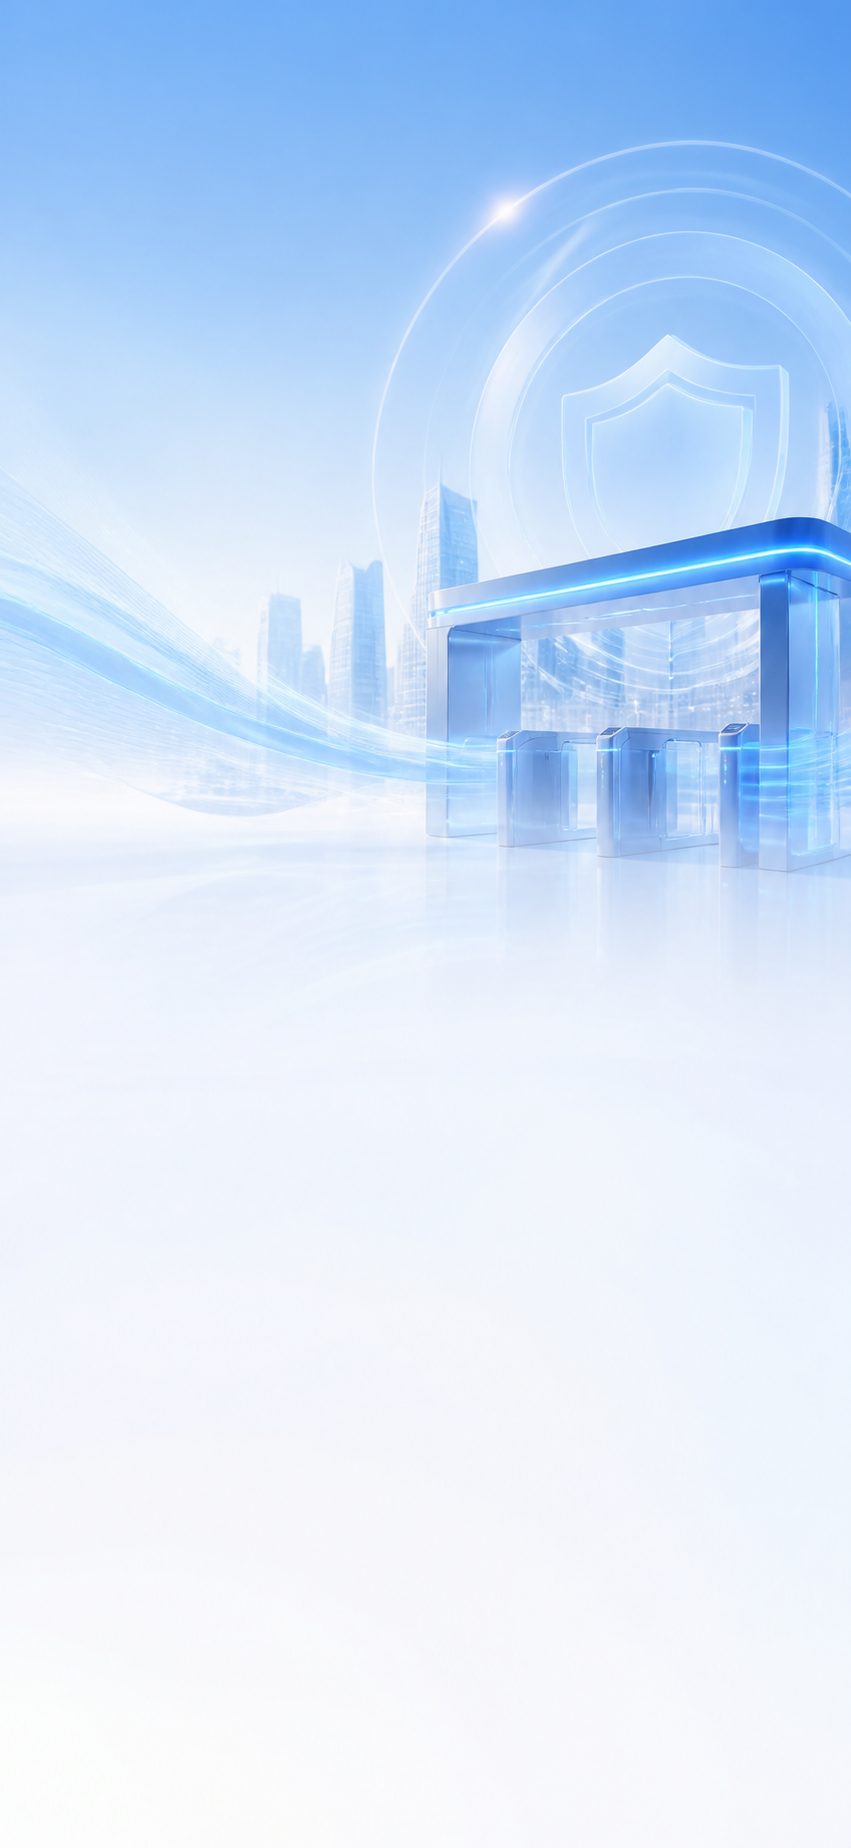
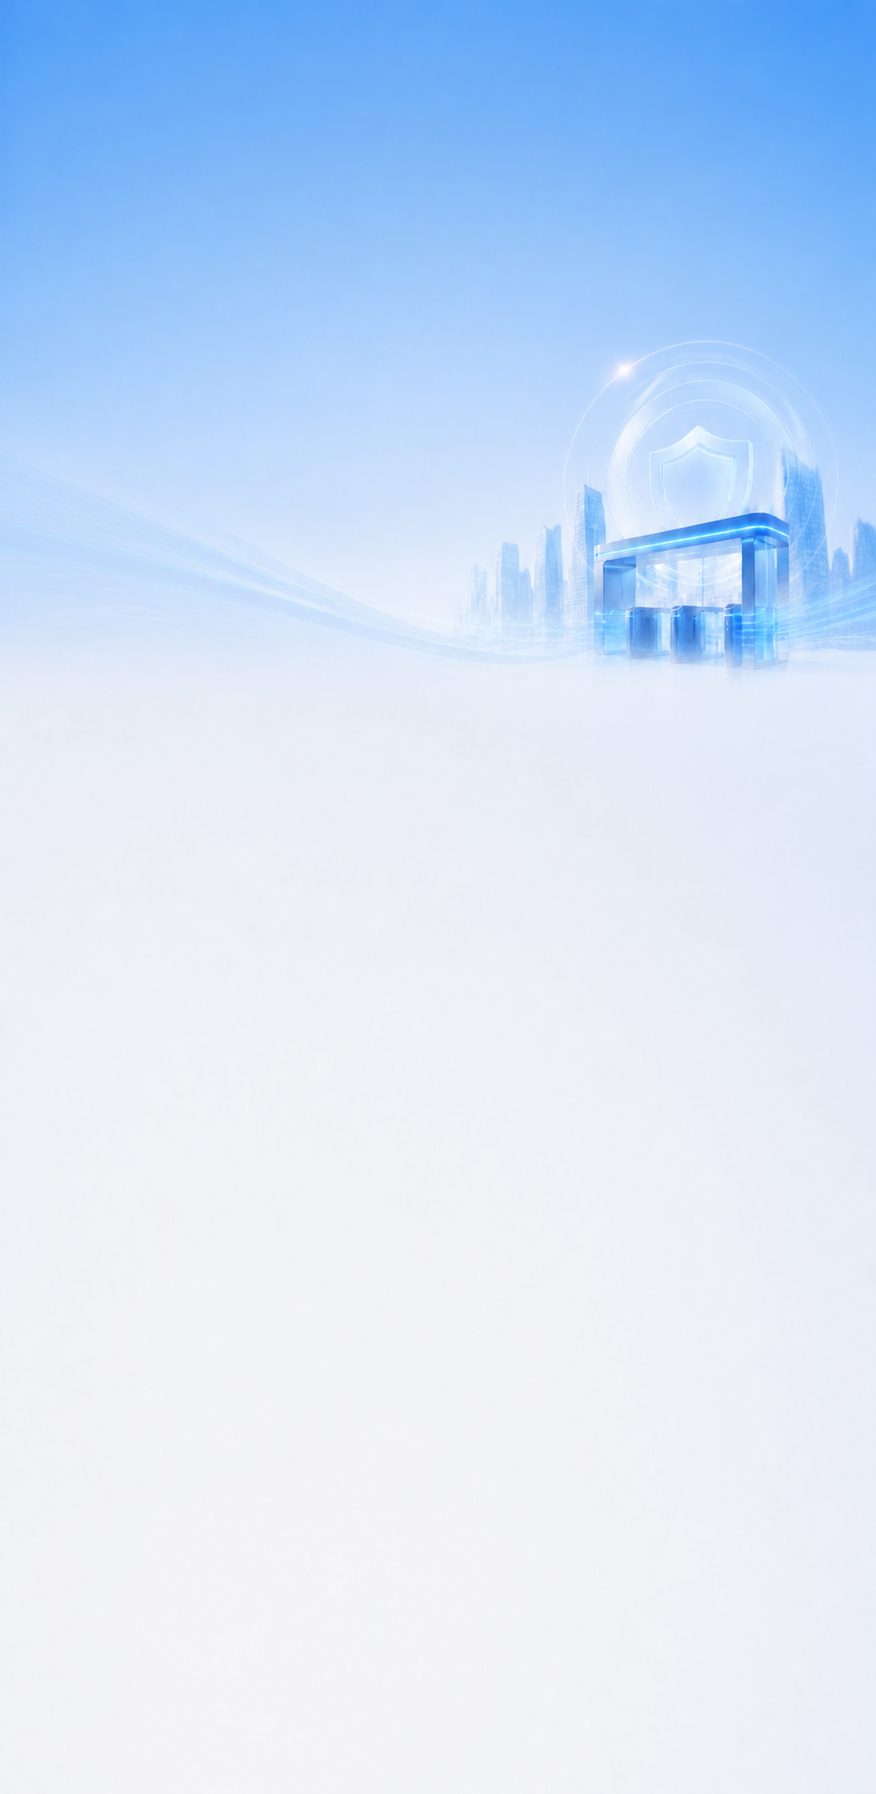
调整登录背景主体位置

Changed region(s): [[0.0, 0.0, 1.0, 0.4994], [0.5194, 0.0936, 0.7027, 0.2497], [0.4277, 0.2185, 0.4583, 0.2497]]

diff --git a/frontends/enterprise-h5.html b/frontends/enterprise-h5.html
@@ -34,7 +34,7 @@ body.profile-mode .top{display:none}body.profile-mode .app{background:#f2f7fc}.p
 /* 提交区与页面同底色，紧贴 Tab 上方；申请页关闭位移动画，避免 fixed 被变换容器截获 */
 .view.apply-page{padding-bottom:76px}.view.apply-page.active{animation:none}.submit-bar{z-index:6;padding:8px 16px 10px;border:0;background:#f4f8fc;box-shadow:none;backdrop-filter:none;-webkit-backdrop-filter:none}
 /* 登录页：背景切图与 DOM 表单分层，替换 login-bg.png 不影响文字和交互 */
-.login-screen{width:min(100%,430px);min-height:100dvh;margin:auto;padding:calc(22px + env(safe-area-inset-top)) 20px calc(24px + env(safe-area-inset-bottom));position:relative;overflow:hidden;background:#f4f9ff url('../assets/login-bg.png') center top/cover no-repeat;box-shadow:0 0 0 1px rgba(39,87,129,.08),0 20px 70px rgba(36,75,111,.16)}.login-screen:after{content:"";position:absolute;inset:0;background:linear-gradient(180deg,rgba(244,249,255,.08) 0%,rgba(244,249,255,.12) 30%,rgba(244,249,255,.56) 56%,#f4f9ff 88%);pointer-events:none}.login-content{position:relative;z-index:1}.login-brand{display:flex;align-items:center;gap:11px}.login-logo{width:48px;height:48px;border-radius:15px;display:grid;place-items:center;color:#fff;font-size:23px;font-weight:700;background:linear-gradient(145deg,#0d67d8,#2685ee);box-shadow:0 9px 22px rgba(16,104,216,.25),inset 0 0 0 1px rgba(255,255,255,.3)}.login-brand b{display:block;color:#17365f;font-size:20px;line-height:1.25;letter-spacing:.04em}.login-brand small{display:block;color:#698198;font-size:12px;margin-top:3px}.login-intro{margin-top:130px}.login-intro h1{margin:0;color:#17324d;font-size:30px;line-height:1.25;letter-spacing:-.03em;text-wrap:balance}.login-intro p{margin:8px 0 0;color:#617b94;font-size:14px}.login-panel{margin-top:24px;padding:22px 18px 20px;border-radius:20px;background:rgba(255,255,255,.92);box-shadow:0 14px 38px rgba(38,85,130,.13),inset 0 0 0 1px rgba(255,255,255,.8);backdrop-filter:blur(12px);-webkit-backdrop-filter:blur(12px)}.login-field{margin-bottom:17px}.login-field label{display:block;margin:0 0 8px;color:#2c4965;font-size:13px;font-weight:600}.login-input-wrap{height:52px;border:1px solid #d3e1ed;border-radius:12px;background:rgba(250,253,255,.92);display:flex;align-items:center;padding:0 13px;color:#7690a8;transition-property:border-color,box-shadow,background-color;transition-duration:.2s}.login-input-wrap:focus-within{border-color:#438ee6;background:#fff;box-shadow:0 0 0 3px rgba(23,107,219,.11)}.login-input-wrap .ui-icon{width:20px;height:20px;flex:0 0 20px}.login-input-wrap input{width:100%;min-width:0;height:50px;border:0;outline:0;background:transparent;padding:0 10px;color:#17324d;font-size:16px}.login-input-wrap input::placeholder{color:#9bacc0}.code-button{height:38px;flex:0 0 auto;border:0;border-left:1px solid #dce7f0;background:transparent;padding:0 0 0 13px;color:#176bdb;font-size:13px;font-weight:550;white-space:nowrap}.login-button{margin-top:2px;height:52px}.login-agreement{display:flex;align-items:flex-start;gap:8px;margin:16px 3px 0;color:#607990;font-size:12px;line-height:1.55}.login-agreement input{width:18px;height:18px;margin:0;accent-color:#176bdb;flex:0 0 18px}.login-agreement a{color:#176bdb;text-decoration:none}.login-support{text-align:center;margin:22px 0 0;color:#8295a8;font-size:12px}.login-support button{min-height:40px;border:0;background:transparent;padding:0 4px;color:#176bdb}.login-screen[hidden]{display:none}body.login-mode{min-height:100dvh}body.login-mode .app,body.login-mode .mask{display:none}@media(max-height:760px){.login-intro{margin-top:72px}.login-panel{margin-top:18px}.login-support{margin-top:12px}}@media(max-width:350px){.login-screen{padding-left:16px;padding-right:16px}.login-intro{margin-top:100px}.login-intro h1{font-size:27px}.login-panel{padding-left:16px;padding-right:16px}}
+.login-screen{width:min(100%,430px);min-height:100dvh;margin:auto;padding:calc(22px + env(safe-area-inset-top)) 20px calc(24px + env(safe-area-inset-bottom));position:relative;overflow:hidden;background:#f4f9ff url('../assets/login-bg.png') center -72px/cover no-repeat;box-shadow:0 0 0 1px rgba(39,87,129,.08),0 20px 70px rgba(36,75,111,.16)}.login-screen:after{content:"";position:absolute;inset:0;background:linear-gradient(180deg,rgba(244,249,255,.08) 0%,rgba(244,249,255,.12) 30%,rgba(244,249,255,.56) 56%,#f4f9ff 88%);pointer-events:none}.login-content{position:relative;z-index:1}.login-brand{display:flex;align-items:center;gap:11px}.login-logo{width:48px;height:48px;border-radius:15px;display:grid;place-items:center;color:#fff;font-size:23px;font-weight:700;background:linear-gradient(145deg,#0d67d8,#2685ee);box-shadow:0 9px 22px rgba(16,104,216,.25),inset 0 0 0 1px rgba(255,255,255,.3)}.login-brand b{display:block;color:#17365f;font-size:20px;line-height:1.25;letter-spacing:.04em}.login-brand small{display:block;color:#698198;font-size:12px;margin-top:3px}.login-intro{margin-top:130px}.login-intro h1{margin:0;color:#17324d;font-size:30px;line-height:1.25;letter-spacing:-.03em;text-wrap:balance}.login-intro p{margin:8px 0 0;color:#617b94;font-size:14px}.login-panel{margin-top:24px;padding:22px 18px 20px;border-radius:20px;background:rgba(255,255,255,.92);box-shadow:0 14px 38px rgba(38,85,130,.13),inset 0 0 0 1px rgba(255,255,255,.8);backdrop-filter:blur(12px);-webkit-backdrop-filter:blur(12px)}.login-field{margin-bottom:17px}.login-field label{display:block;margin:0 0 8px;color:#2c4965;font-size:13px;font-weight:600}.login-input-wrap{height:52px;border:1px solid #d3e1ed;border-radius:12px;background:rgba(250,253,255,.92);display:flex;align-items:center;padding:0 13px;color:#7690a8;transition-property:border-color,box-shadow,background-color;transition-duration:.2s}.login-input-wrap:focus-within{border-color:#438ee6;background:#fff;box-shadow:0 0 0 3px rgba(23,107,219,.11)}.login-input-wrap .ui-icon{width:20px;height:20px;flex:0 0 20px}.login-input-wrap input{width:100%;min-width:0;height:50px;border:0;outline:0;background:transparent;padding:0 10px;color:#17324d;font-size:16px}.login-input-wrap input::placeholder{color:#9bacc0}.code-button{height:38px;flex:0 0 auto;border:0;border-left:1px solid #dce7f0;background:transparent;padding:0 0 0 13px;color:#176bdb;font-size:13px;font-weight:550;white-space:nowrap}.login-button{margin-top:2px;height:52px}.login-agreement{display:flex;align-items:flex-start;gap:8px;margin:16px 3px 0;color:#607990;font-size:12px;line-height:1.55}.login-agreement input{width:18px;height:18px;margin:0;accent-color:#176bdb;flex:0 0 18px}.login-agreement a{color:#176bdb;text-decoration:none}.login-support{text-align:center;margin:22px 0 0;color:#8295a8;font-size:12px}.login-support button{min-height:40px;border:0;background:transparent;padding:0 4px;color:#176bdb}.login-screen[hidden]{display:none}body.login-mode{min-height:100dvh}body.login-mode .app,body.login-mode .mask{display:none}@media(max-height:760px){.login-intro{margin-top:72px}.login-panel{margin-top:18px}.login-support{margin-top:12px}}@media(max-width:350px){.login-screen{padding-left:16px;padding-right:16px}.login-intro{margin-top:100px}.login-intro h1{font-size:27px}.login-panel{padding-left:16px;padding-right:16px}}
 </style>
 </head>
 <body class="login-mode"><svg width="0" height="0" style="position:absolute"><symbol id="i-add" viewBox="0 0 24 24"><path d="M12 5v14M5 12h14"/></symbol><symbol id="i-next" viewBox="0 0 24 24"><path d="m9 5 7 7-7 7"/></symbol><symbol id="i-close" viewBox="0 0 24 24"><path d="m6 6 12 12M18 6 6 18"/></symbol><symbol id="i-trash" viewBox="0 0 24 24"><path d="M5 7h14M9 7V4h6v3m2 0-1 13H8L7 7m3 4v5m4-5v5"/></symbol><symbol id="i-door" viewBox="0 0 24 24"><path d="M4 21h16M6 21V4h10v17M10 12h.01M16 8h3v13"/></symbol><symbol id="i-file-add" viewBox="0 0 24 24"><path d="M6 3h8l4 4v14H6zM14 3v5h4M12 11v6m-3-3h6"/></symbol><symbol id="i-file-list" viewBox="0 0 24 24"><path d="M6 3h8l4 4v14H6zM14 3v5h4M9 12h6M9 16h6"/></symbol><symbol id="i-lock" viewBox="0 0 24 24"><rect x="5" y="10" width="14" height="11" rx="2"/><path d="M8 10V7a4 4 0 0 1 8 0v3"/></symbol><symbol id="i-logout" viewBox="0 0 24 24"><path d="M10 5H5v14h5M14 8l4 4-4 4m4-4H9"/></symbol><symbol id="i-qr" viewBox="0 0 24 24"><path d="M4 4h6v6H4zM14 4h6v6h-6zM4 14h6v6H4zM15 14h2v2h-2zM19 14h1v6h-5v-2"/></symbol><symbol id="i-search" viewBox="0 0 24 24"><circle cx="11" cy="11" r="6"/><path d="m16 16 4 4"/></symbol><symbol id="i-shield" viewBox="0 0 24 24"><path d="M12 3 5 6v5c0 5 3 8 7 10 4-2 7-5 7-10V6zM9 12l2 2 4-4"/></symbol><symbol id="i-phone" viewBox="0 0 24 24"><rect x="7" y="2" width="10" height="20" rx="2"/><path d="M10 18h4"/></symbol><symbol id="i-user" viewBox="0 0 24 24"><circle cx="12" cy="8" r="4"/><path d="M5 21a7 7 0 0 1 14 0"/></symbol><symbol id="i-settings" viewBox="0 0 24 24"><circle cx="12" cy="12" r="3"/><path d="M19 12a7 7 0 0 0-.1-1l2-1.5-2-3.4-2.4 1A7 7 0 0 0 14.8 6L14.5 3h-5L9.2 6a7 7 0 0 0-1.7 1.1l-2.4-1-2 3.4L5.1 11a7 7 0 0 0 0 2l-2 1.5 2 3.4 2.4-1A7 7 0 0 0 9.2 18l.3 3h5l.3-3a7 7 0 0 0 1.7-1.1l2.4 1 2-3.4-2-1.5c.1-.3.1-.7.1-1z"/></symbol><symbol id="i-bell" viewBox="0 0 24 24"><path d="M18 8a6 6 0 0 0-12 0c0 7-3 7-3 9h18c0-2-3-2-3-9M10 21h4"/></symbol><symbol id="i-building" viewBox="0 0 24 24"><path d="M4 21V5h10v16M14 9h6v12M7 9h4M7 13h4M7 17h4M17 13h1M17 17h1M2 21h20"/></symbol><symbol id="i-team" viewBox="0 0 24 24"><circle cx="9" cy="8" r="3"/><circle cx="17" cy="9" r="2"/><path d="M3 20a6 6 0 0 1 12 0M14 15a5 5 0 0 1 7 4"/></symbol><symbol id="i-map" viewBox="0 0 24 24"><path d="M12 21s7-5 7-12a7 7 0 0 0-14 0c0 7 7 12 7 12z"/><circle cx="12" cy="9" r="2"/></symbol></svg><section class="login-screen" id="loginScreen" aria-labelledby="loginTitle"><div class="login-content"><div class="login-brand"><span class="login-logo">访</span><div><b>访客通</b><small>华辰科技有限公司</small></div></div><div class="login-intro"><h1 id="loginTitle">欢迎登录</h1><p>登录后查看访客申请与通行记录</p></div><form class="login-panel" onsubmit="login(event)"><div class="login-field"><label for="loginPhone">手机号</label><div class="login-input-wrap"><svg class="ui-icon"><use href="#i-phone"/></svg><input id="loginPhone" inputmode="tel" autocomplete="tel" maxlength="11" placeholder="请输入手机号"></div></div><div class="login-field"><label for="loginCode">验证码</label><div class="login-input-wrap"><svg class="ui-icon"><use href="#i-shield"/></svg><input id="loginCode" inputmode="numeric" autocomplete="one-time-code" maxlength="6" placeholder="请输入验证码"><button class="code-button" id="codeButton" type="button" onclick="sendLoginCode()">获取验证码</button></div></div><button class="primary login-button" type="submit">登录</button></form><label class="login-agreement"><input id="loginAgreement" type="checkbox" checked><span>我已阅读并同意<a href="javascript:void(0)" onclick="showToast('已打开用户协议')">《用户协议》</a>和<a href="javascript:void(0)" onclick="showToast('已打开隐私政策')">《隐私政策》</a></span></label><p class="login-support">登录遇到问题？<button type="button" onclick="showToast('请联系华辰科技企业管理员')">联系企业管理员</button></p></div></section><div class="app"><header class="top"><div><b>访客通</b><small>华辰科技有限公司</small></div></header><main id="main"></main><nav class="nav" aria-label="主要功能"><button class="active" data-view="apply" onclick="switchView(this,'apply')"><svg class="ui-icon"><use href="#i-file-add"/></svg><span id="applyNavLabel">申请访问</span></button><button data-view="applications" onclick="switchView(this,'applications')"><svg class="ui-icon"><use href="#i-file-list"/></svg>申请记录</button><button data-view="access" onclick="switchView(this,'access')"><svg class="ui-icon"><use href="#i-door"/></svg>访问记录</button><button data-view="profile" onclick="switchView(this,'profile')"><svg class="ui-icon"><use href="#i-user"/></svg>个人信息</button></nav></div>
